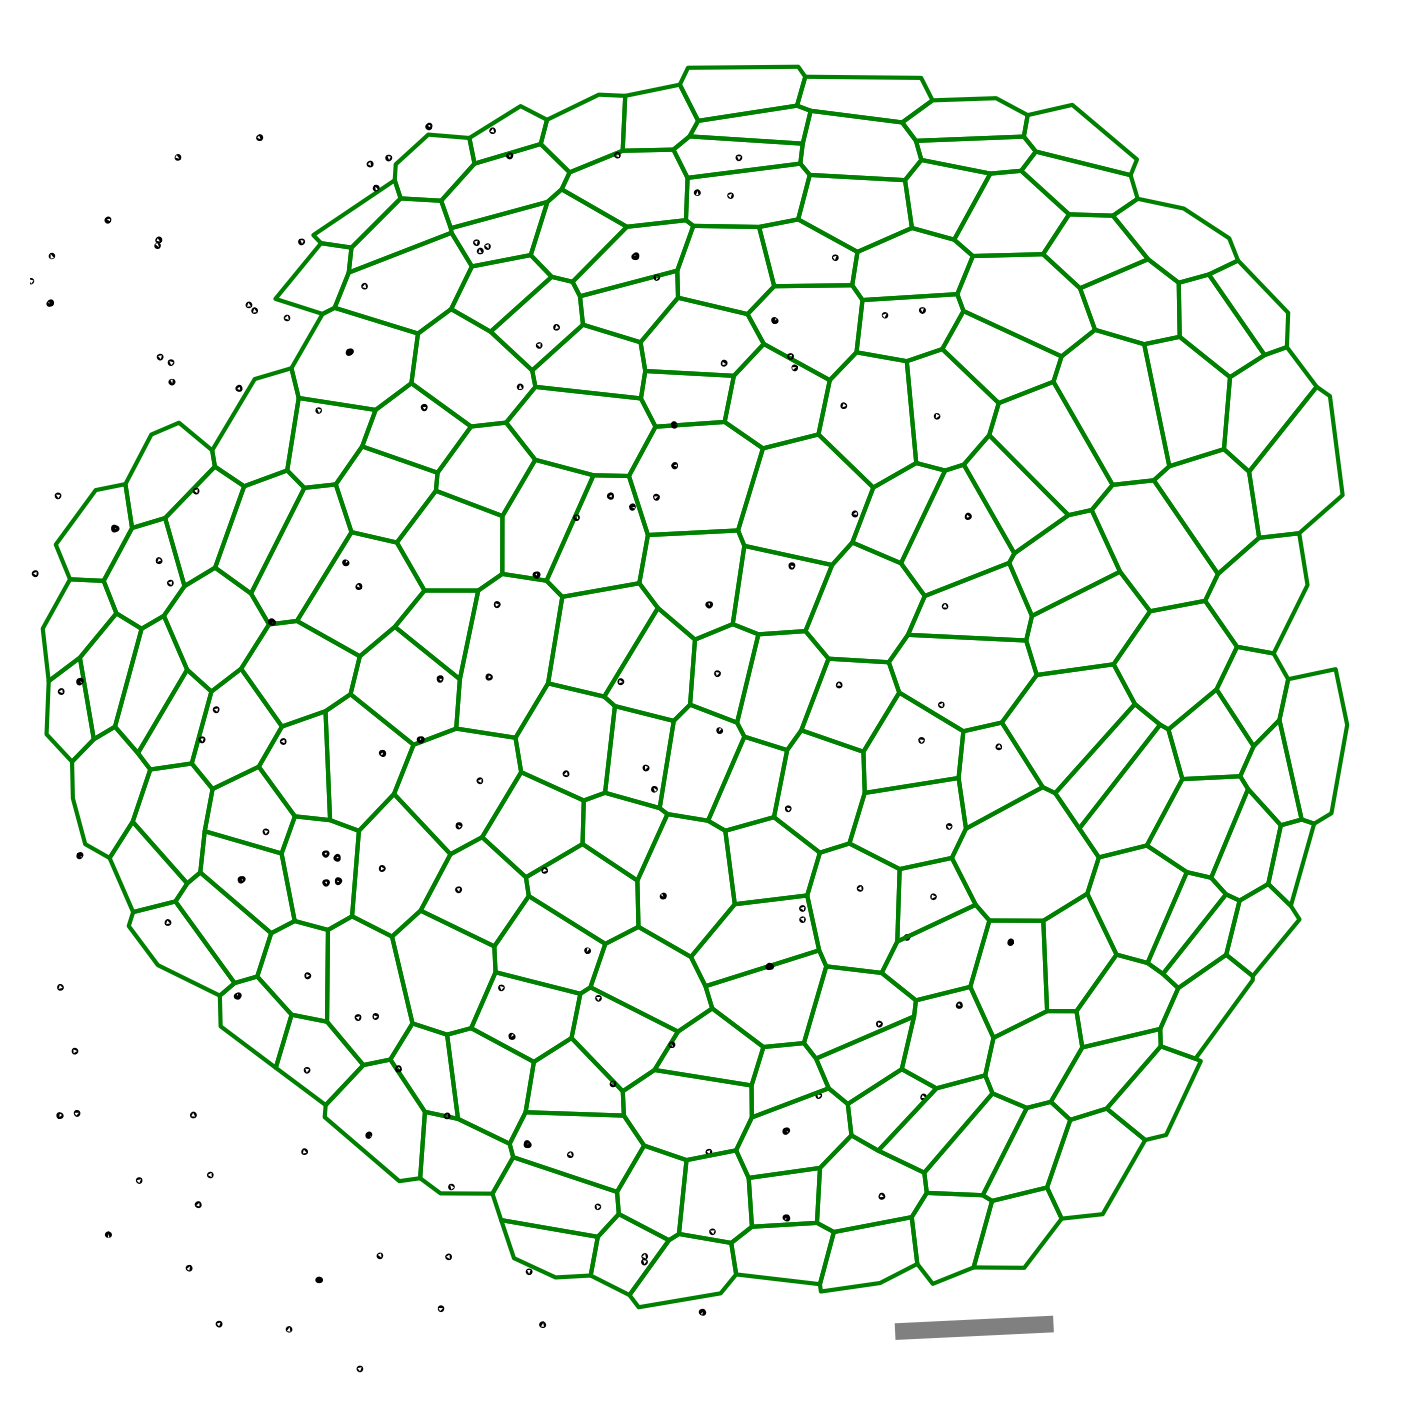
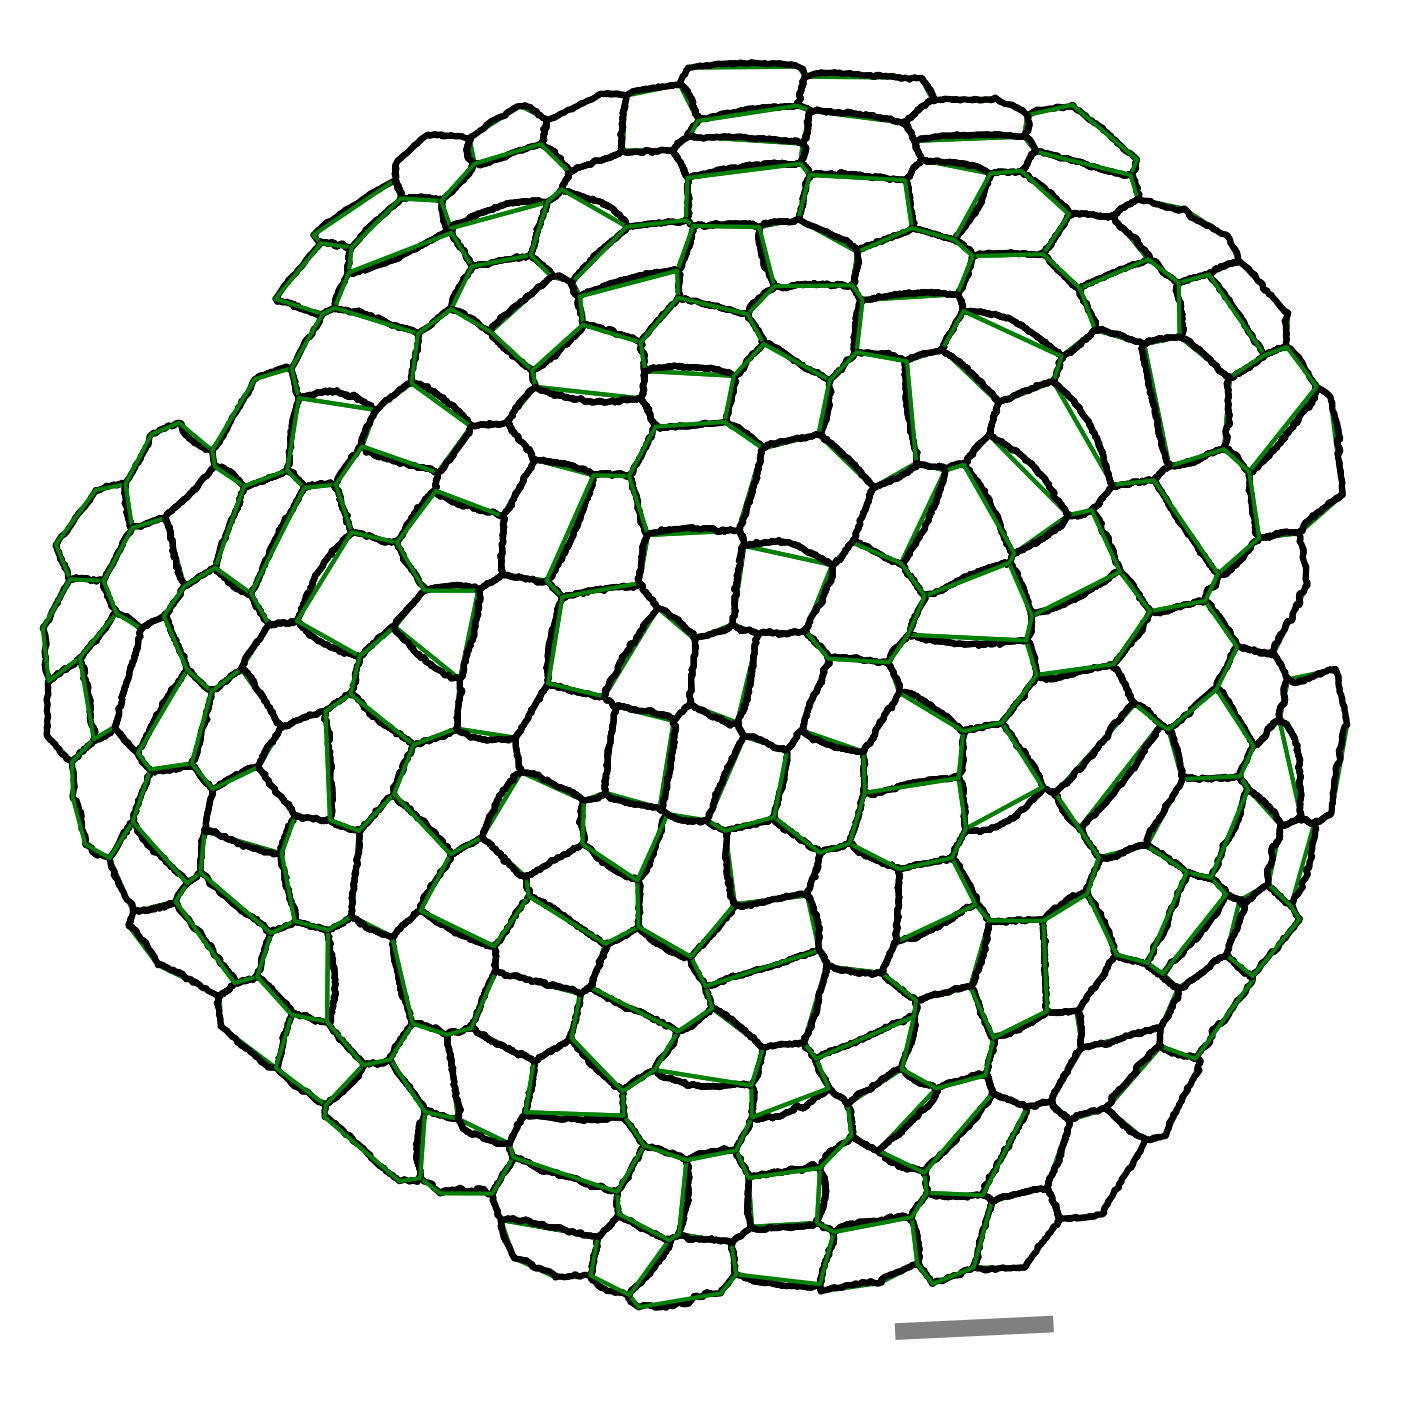
visualize tissues comparison WT cotyledon and SAM as well as speechless cotyledon for whole tissue, and cell selection with irregularities and area ratios

diff --git a/Code/Analyze/FolderContentPatchPlotter.py b/Code/Analyze/FolderContentPatchPlotter.py
@@ -450,11 +450,11 @@ def mainFig2AB(save=False, resultsFolder="Results/Tissue Visualization/", zoomed
     scaleBarSize = 10
     if zoomedIn:
         allAxesParameter = {"WT inflorescence meristem_P2_T0": {'xlim': [34.59, 44.78], 'ylim': [48.72, 60.58], 'zlim': [17.46, 20.58], 'azim': 120, 'elev': 50},
-                            "WT_20200220 WT S1_120h": {'xlim': [124.22, 423.17], 'ylim': [174.65, 576.6], 'zlim': [1.05, 3.95], 'azim': -90, 'elev': 90},
+                            "WT_4dag_20210712_XVE_5_0_A_merged_Region1_96h": {'xlim': [334.41, 401.85], 'ylim': [377.26, 448.91], 'zlim': [1.47, 3.53], 'azim': -236, 'elev': 90},
                             "WT_20200220 WT S1_120h": {'xlim': [319.47, 370.72], 'ylim': [502.51, 554.61], 'zlim': [1.07, 3.93], 'azim': -90, 'elev': 90},
                             }
         allScaleBarOffsets = {("WT inflorescence meristem", "P2"): np.array([32, 58, 17.7]),
-                              ("WT_4dag", "20210712_XVE_5_0_A_merged_Region1"): np.array([410, 360, 0]),
+                              ("WT_4dag", "20210712_XVE_5_0_A_merged_Region1"): np.array([308, 440, 0]),
                               ("WT", "20200220 WT S1"): np.array([380, 495, 0])}
         offsetOfOverlaidContours = {}
         offsetOfContoursOfTissues = {("WT inflorescence meristem", "P2"): [2.0914, 0.7689999999999984, 1.2651999999999965],
@@ -495,7 +495,7 @@ def mainFig2AB(save=False, resultsFolder="Results/Tissue Visualization/", zoomed
             scaleBarOffset = allScaleBarOffsets[scenarioReplicateId]
         else:
             scaleBarOffset = None
-        if scenarioReplicateId == ("WT inflorescence meristem", "P2"):
+        if scenarioReplicateId == ("WT inflorescence meristem", "P2") and not zoomedIn:
             parameter["surfaceContourPerCellFilenameKey"] = "cellContours"
         else:
             parameter["surfaceContourPerCellFilenameKey"] = surfaceContourPerCellFilenameKey
@@ -964,9 +964,11 @@ def mainSupFig1A(save=False, resultsFolder="Results/Tissue Visualization/", zoom
             print(f'{axesParameter}')
 
 if __name__ == '__main__':
-    mainFig2AB(save=True, zoomedIn=False, resultsFolder="Results/Tissue Visualization/")
-    # lengthIrregularityValueRangeOverTissues = mainFig2AB(save=True, zoomedIn=True, measureDataFilenameKey="regularityMeasuresFilename", selectedSubMeasure="lengthGiniCoeff", resultsFolder="Results/Tissue Visualization/")
-    # angleIrregularityValueRangeOverTissues = mainFig2AB(save=True, zoomedIn=True, measureDataFilenameKey="regularityMeasuresFilename", selectedSubMeasure="angleGiniCoeff", resultsFolder="Results/Tissue Visualization/")
+    # mainFig2AB(manualVisualizationMode=True, zoomedIn=False, resultsFolder="Results/Tissue Visualization/")
+    lengthIrregularityValueRangeOverTissues = mainFig2AB(manualVisualizationMode=True, zoomedIn=True, measureDataFilenameKey="regularityMeasuresFilename", selectedSubMeasure="lengthGiniCoeff", resultsFolder="Results/Tissue Visualization/")
+    # lengthIrregularityValueRangeOverTissues = mainFig2AB(manualVisualizationMode=True, zoomedIn=True, measureDataFilenameKey="regularityMeasuresFilename", selectedSubMeasure="angleGiniCoeff", resultsFolder="Results/Tissue Visualization/")
+    # lengthIrregularityValueRangeOverTissues = mainFig2AB(manualVisualizationMode=True, zoomedIn=True, measureDataFilenameKey="areaMeasuresPerCell", selectedSubMeasure={"ratio": ["originalPolygonArea", "labelledImageArea"]}, resultsFolder="Results/Tissue Visualization/")
+    # lengthIrregularityValueRangeOverTissues = mainFig2AB(manualVisualizationMode=True, zoomedIn=True, measureDataFilenameKey="areaMeasuresPerCell", selectedSubMeasure={"ratio": ["regularPolygonArea", "labelledImageArea"]}, resultsFolder="Results/Tissue Visualization/")
 
     # irregularityOfEng2021CotyledonsFolder = "Results/Tissue Visualization/Eng2021Cotyledons/Fig3/"
     # mainFig3A(save=True, resultsFolder=irregularityOfEng2021CotyledonsFolder)
